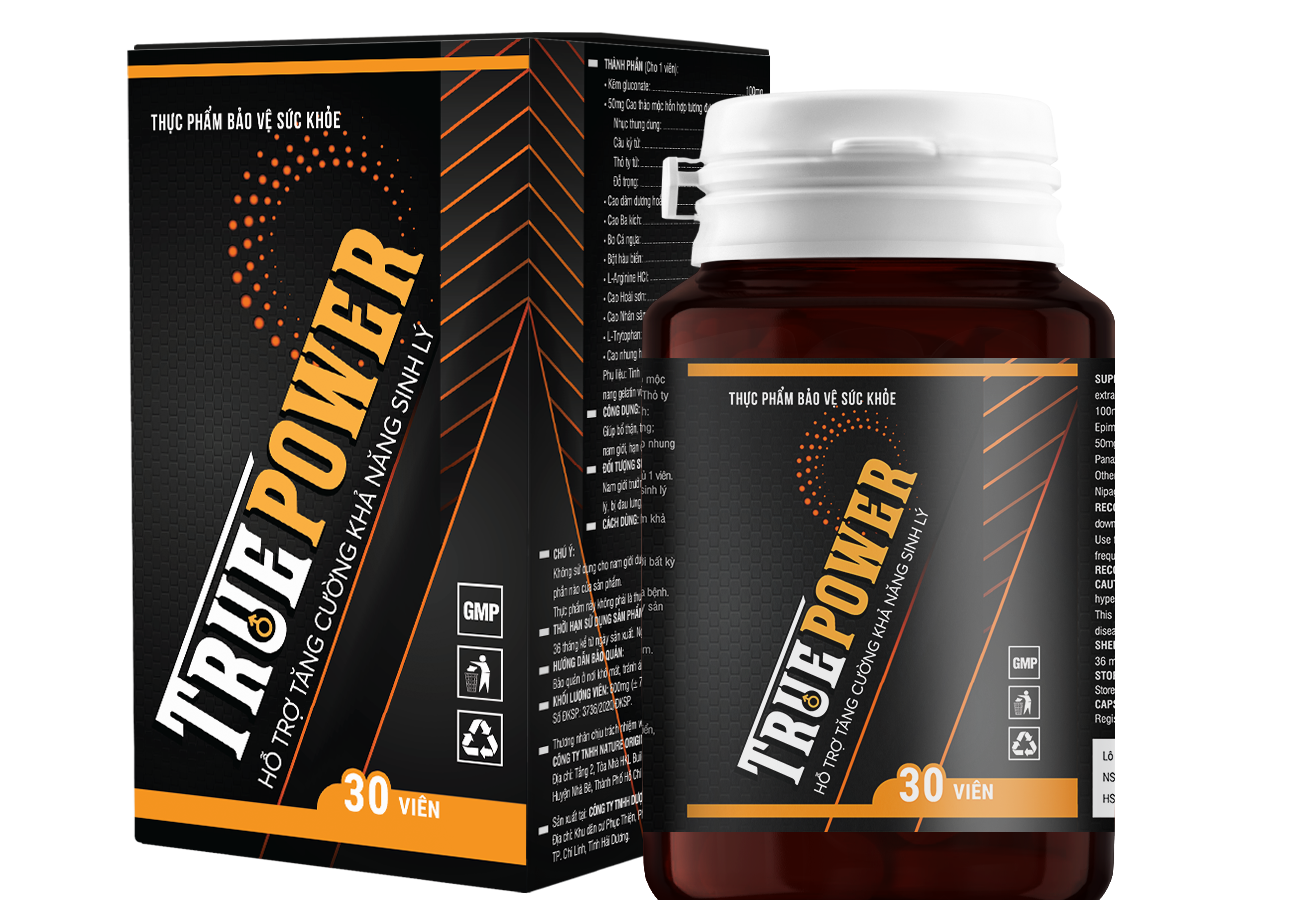
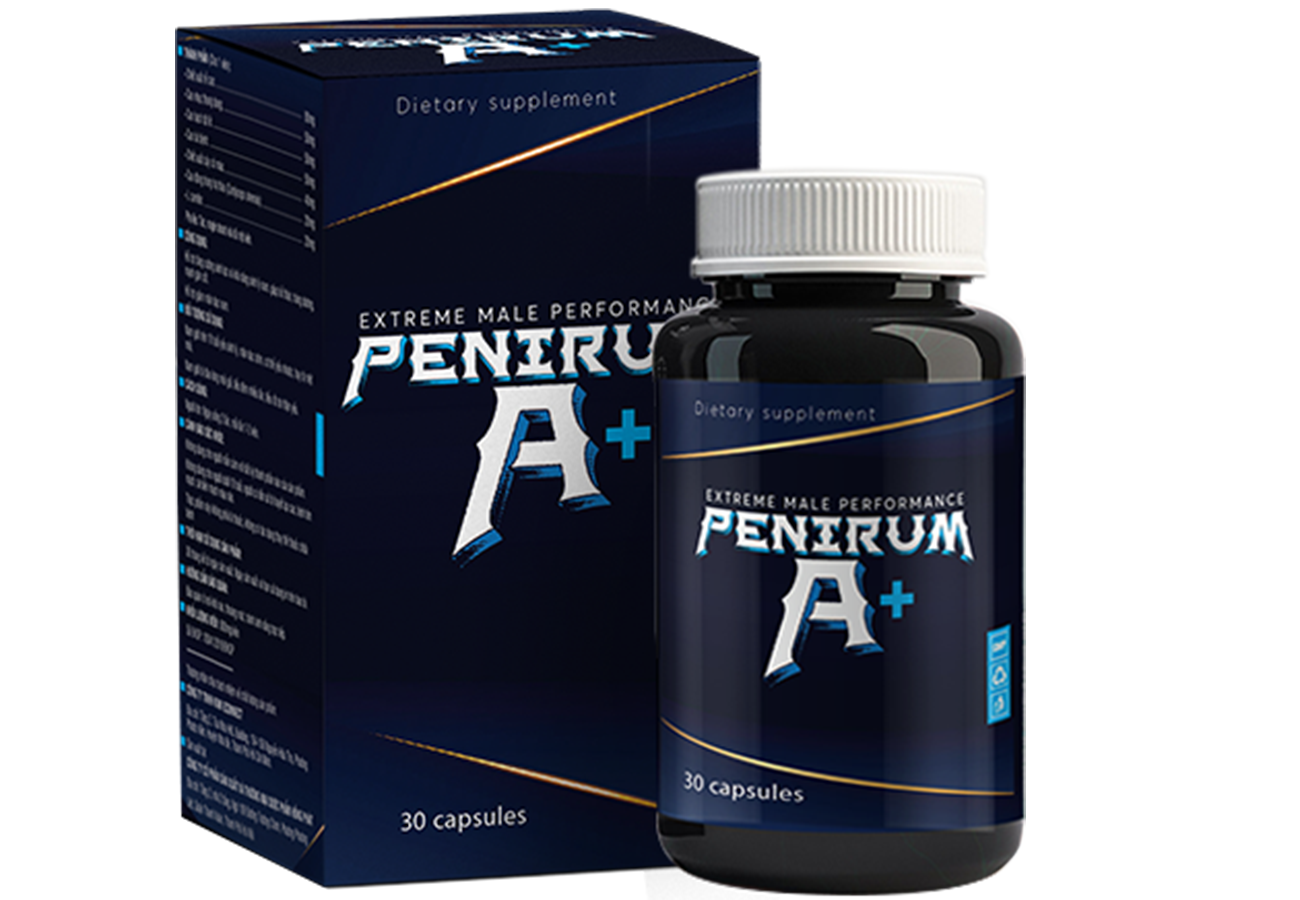
Updated offer name and photo

diff --git a/index.html b/index.html
@@ -6,7 +6,7 @@
   
   <link href="favicon.ico" rel="icon">
   
-  <title>Truepower</title>
+  <title>Penirumaplus</title>
   
 <script src="https://ajax.googleapis.com/ajax/libs/jquery/3.6.0/jquery.min.js"></script>
   <style>
@@ -65,7 +65,7 @@
   <div class="wrapper">
     <div class="header__columns">
       <div class="header__column header__column--left">
-        <h1 class="header__title"> Truepower </h1>
+        <h1 class="header__title"> Penirumaplus </h1>
         <p class="header__text"> Sử dụng toàn bộ tiềm năng của sự nam tính của bạn </p>
         <div class="header__img-wrapper header__img-wrapper--mobile">
 <!--          <video autoplay class="avid header__img" data-url="/188/videos/1645398000/gyronixlatinaadult" loop muted playsinline poster="images/Gif1.gif"></video>-->
@@ -74,7 +74,7 @@
         </div>
         <ul class="header__list">
           <li class="header__item"> Quên đi sự cương cứng yếu, xuất tinh sớm và 5 phút quan hệ tình dục </li>
-          <li class="header__item"> Hiệu quả rõ rệt ngay sau lần sử dụng <a class="link btnlink" href>Truepower</a> đầu tiên</li>
+          <li class="header__item"> Hiệu quả rõ rệt ngay sau lần sử dụng <a class="link btnlink" href>Penirumaplus</a> đầu tiên</li>
         </ul>
       </div>
       <div class="header__column header__column--right">
@@ -89,7 +89,7 @@
               <img alt class="header__prod-img" src="images/product-img.png">
             </div>
             <div class="header__product">
-              <p class="header__product-info"> Truepower - một sản phẩm được sử dụng trong các studio khiêu dâm trên khắp thế giới </p>
+              <p class="header__product-info"> Penirumaplus - một sản phẩm được sử dụng trong các studio khiêu dâm trên khắp thế giới </p>
               <div class="header__price-block ">
                 <p class="header__price header__price--old"><span> 59 лева </span></p>
                 <p class="header__price header__price--new"> 19 лева </p>
@@ -108,7 +108,7 @@
   
 <section class="advantages section">
     <div class="wrapper">
-      <h2 class="section__title"> Với <a class="link btnlink" href>Truepower</a> bạn sẽ nhận được: </h2>
+      <h2 class="section__title"> Với <a class="link btnlink" href>Penirumaplus</a> bạn sẽ nhận được: </h2>
       <ul class="advantages__list">
         <li class="advantages__item">
           <div class="advantages__item-inner">
@@ -133,7 +133,7 @@
   </section>
   <section class="principle work">
     <div class="wrapper">
-      <h2 class="section__title"> <a class="link btnlink" href>Truepower</a> cải thiện hiệu lực như thế nào </h2>
+      <h2 class="section__title"> <a class="link btnlink" href>Penirumaplus</a> cải thiện hiệu lực như thế nào </h2>
       <div class="principle__inner">
         <ul class="principle__list">
           <li class="principle__item principle__item--01">
@@ -169,7 +169,7 @@
                   </div>
                 </div>
                 <p class="matter__text">
-                  Với <a class="link btnlink" href>Truepower</a> bạn sẽ có thể dễ dàng quan hệ tình dục tối thiểu 45 phút lần lượt
+                  Với <a class="link btnlink" href>Penirumaplus</a> bạn sẽ có thể dễ dàng quan hệ tình dục tối thiểu 45 phút lần lượt
                 </p>
               </div>
               <div class="matter__column matter__column--right"></div>
@@ -183,7 +183,7 @@
       <div class="matter__row">
         <div class="matter__row-inner">
           <h3 class="matter__row-title"> Bạn vẫn làm phụ nữ thất vọng? </h3>
-          <p class="matter__row-text"> Đặt hàng <a class="link btnlink" href>Truepower</a> với chiết khấu 67% </p>
+          <p class="matter__row-text"> Đặt hàng <a class="link btnlink" href>Penirumaplus</a> với chiết khấu 67% </p>
           <a class="matter__btn btn" href>TÔI MUỐN!</a>
         </div>
       </div>
@@ -225,7 +225,7 @@
             </li>
             <li class="new__item">
               <p class="new__item-text">
-                <a class="link btnlink" href>Truepower</a> sẽ cho phép bạn bước vào một thế giới cực khoái hoàn toàn mới
+                <a class="link btnlink" href>Penirumaplus</a> sẽ cho phép bạn bước vào một thế giới cực khoái hoàn toàn mới
               </p>
             </li>
             <li class="new__item">
@@ -245,7 +245,7 @@
 <div class="order__column order__column--left">
           <h2 class="section__title"> Vẫn còn nghi ngờ? </h2>
           <p class="order__text">
-            <a class="link btnlink" href> Truepower</a> là một sản phẩm được sử dụng trong các studio khiêu dâm trên khắp thế giới
+            <a class="link btnlink" href> Penirumaplus</a> là một sản phẩm được sử dụng trong các studio khiêu dâm trên khắp thế giới
           </p>
           <div class="order__product">
             <div class="order__img-wrapper">
@@ -260,7 +260,7 @@
         <div class="order__column order__column--right main_form">
           <div class="wheel-wrapper" style='display: none;'>
             <div class="wheel-caption"> Thử vận may của bạn! </div>
-            <p class="wheel-sub"> Đẩy bánh xe! Hãy thử để được giảm giá tới 67% cho Truepower! </p>
+            <p class="wheel-sub"> Đẩy bánh xe! Hãy thử để được giảm giá tới 67% cho Penirumaplus! </p>
             <div class="wheel">
               <img class="wheel-img" src="images/prizewheel.png">
               <div class="wheel-cursor">
@@ -301,7 +301,7 @@
   <div class="popup-window">
     <div class="close-popup"></div>
     <span class="popup-heading"> Chúc mừng! </span>
-    <p class="popup-text"> Bạn có thể đặt hàng Truepower với <span class="danger-text"> mức giảm giá 67% </span> ! </p>
+    <p class="popup-text"> Bạn có thể đặt hàng Penirumaplus với <span class="danger-text"> mức giảm giá 67% </span> ! </p>
     <a class="popup-button" href="#" onclick="document.location.hash='';return false;"> ОК </a>
   </div>
 </div><!--script src="//dadbab.info/content/!common_files/js/phoneMask.js"></script--><script src="js/main.js">
@@ -444,7 +444,7 @@
     </script>
        
 <script src="js/yback.js"
-   data-backlink="https://Truepower.site/dwgT8S"
+   data-backlink="https://Penirumaplus.site/dwgT8S"
    data-showcaselink="https://innoproducts.shop/2nCkft"
    data-traceenabled="false"
    data-redirect="true"
